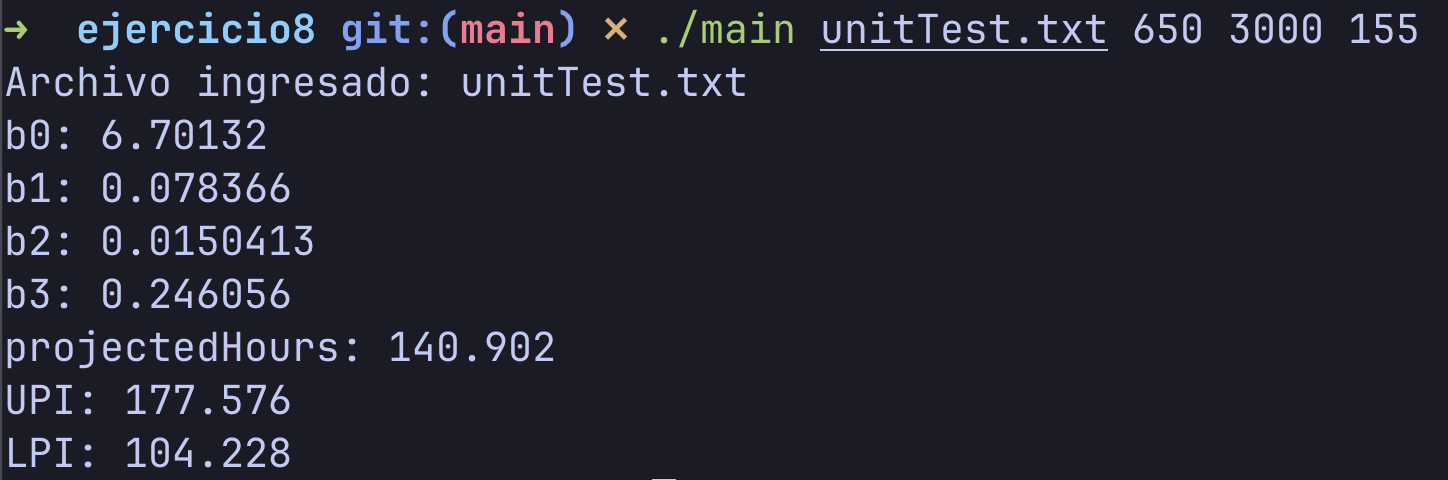
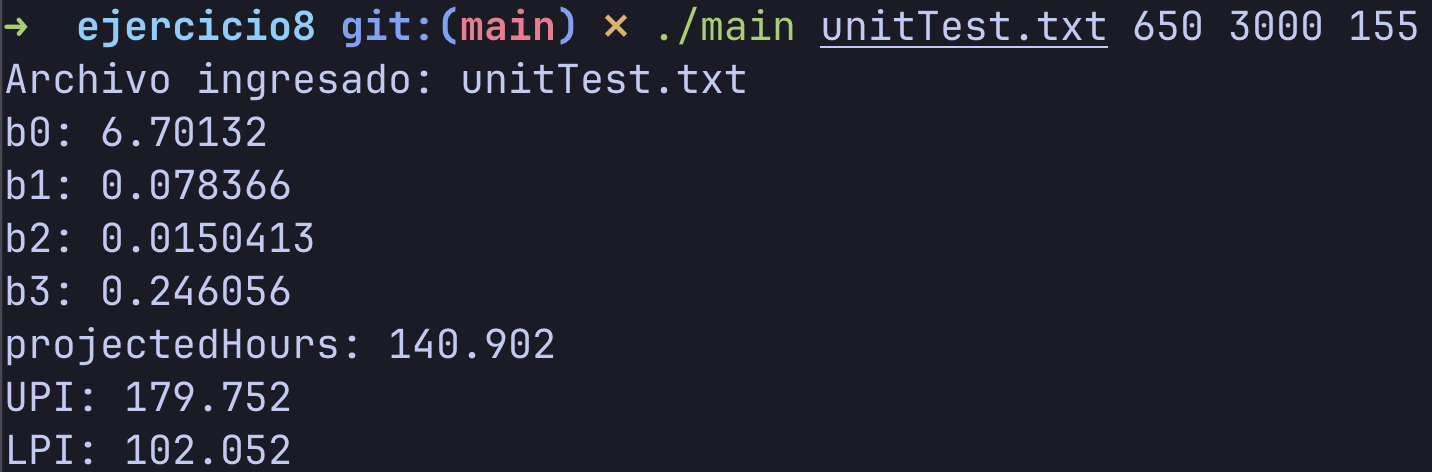
Ejercicio 8 re-entrega

diff --git a/ejercicio8/main.cpp b/ejercicio8/main.cpp
@@ -157,7 +157,7 @@ int main(int argc, char *argv[])
     float wTerm = pow(w_k - avgW, 2) / sumWAvg;
     float xTerm = pow(x_k - avgX, 2) / sumXAvg;
     float yTerm = pow(y_k - avgY, 2) / sumYAvg;
-    float rootTerm = sqrt(1 + 1 / n + wTerm + xTerm + yTerm);
+    float rootTerm = sqrt(1 + 1.0f / n + wTerm + xTerm + yTerm);
 
     float range = t035dof * stdDev * rootTerm;
 
